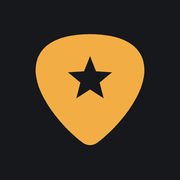
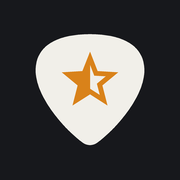
Use the "Tended" mark in the frontend
Sync the new icons, favicons and loader into public/brand (same files as
`npm run brand:sync`). The inline Mark component now draws the solid pick
in the text colour with a half-filled star, coloured by a new
--color-mark-star token: the amber that contrasts with the pick in each
theme.

Changed region(s): [[0.1944, 0.1667, 0.8056, 0.8056]]

diff --git a/frontend/src/components/Layout.tsx b/frontend/src/components/Layout.tsx
@@ -1,3 +1,4 @@
+import { useId } from 'react'
 import { Navigate, NavLink, Outlet, useLocation, useNavigate } from 'react-router'
 import { useLogout, useMe } from '../api/hooks'
 import { useTheme } from '../theme'
@@ -14,13 +15,31 @@ const NAV = [
 ]
 
 const PICK_PATH =
-  'M32 4C48 4 59 9.5 59 22C59 35.5 44 52 35.5 58C33.4 59.5 30.6 59.5 28.5 58C20 52 5 35.5 5 22C5 9.5 16 4 32 4ZM32 15L34.94 22.45L42.94 22.95L36.76 28.05L38.76 35.8L32 31.5L25.24 35.8L27.24 28.05L21.06 22.95L29.06 22.45Z'
+  'M32 4C48 4 59 9.5 59 22C59 35.5 44 52 35.5 58C33.4 59.5 30.6 59.5 28.5 58C20 52 5 35.5 5 22C5 9.5 16 4 32 4Z'
+const STAR_PATH =
+  'M32 16L34.94 23.45L42.94 23.95L36.76 29.05L38.76 36.8L32 32.5L25.24 36.8L27.24 29.05L21.06 23.95L29.06 23.45Z'
 
-/** The guitar-pick mark (branding/plekstender-mark-mono.svg), coloured by `currentColor`. */
+/**
+ * The guitar-pick mark (branding/plekstender-mark.svg): the pick takes `currentColor`
+ * (the text colour by default) and holds a half-filled star in `--color-mark-star`.
+ */
 export function Mark({ className = 'size-6' }: { className?: string }) {
+  const clipId = `mark-half-${useId().replace(/[^a-zA-Z0-9_-]/g, '')}`
   return (
     <svg viewBox="0 0 64 64" className={className} aria-hidden>
-      <path fill="currentColor" fillRule="evenodd" d={PICK_PATH} />
+      <clipPath id={clipId}>
+        <rect x="-8" y="-8" width="40" height="80" />
+      </clipPath>
+      <path fill="currentColor" d={PICK_PATH} />
+      <path
+        fill="none"
+        stroke="var(--color-mark-star)"
+        strokeWidth={2.4}
+        strokeLinejoin="miter"
+        strokeMiterlimit={4}
+        d={STAR_PATH}
+      />
+      <path fill="var(--color-mark-star)" clipPath={`url(#${clipId})`} d={STAR_PATH} />
     </svg>
   )
 }
@@ -28,7 +47,7 @@ export function Mark({ className = 'size-6' }: { className?: string }) {
 export function Wordmark({ size = 'text-lg' }: { size?: string }) {
   return (
     <span className={`inline-flex items-center gap-1.5 font-display font-bold tracking-tight ${size}`}>
-      <Mark className="size-[1.15em] text-accent" />
+      <Mark className="size-[1.15em]" />
       <span>plekstender</span>
     </span>
   )

diff --git a/frontend/src/index.css b/frontend/src/index.css
@@ -12,6 +12,8 @@
   --color-accent: #f2ad45;
   --color-accent-strong: #f6c06d;
   --color-on-accent: #1c1d21;
+  /* Star in the logo: the amber that contrasts with the pick (white pick here). */
+  --color-mark-star: #d9821a;
   --color-ok: #3ccf91;
   --color-warn: #f5c451;
   --color-danger: #f0616d;
@@ -29,6 +31,7 @@
   --color-accent: #d9821a;
   --color-accent-strong: #b86c12;
   --color-on-accent: #1c1d21;
+  --color-mark-star: #f2ad45;
   --color-ok: #198754;
   --color-warn: #a86b00;
   --color-danger: #c62f3c;
